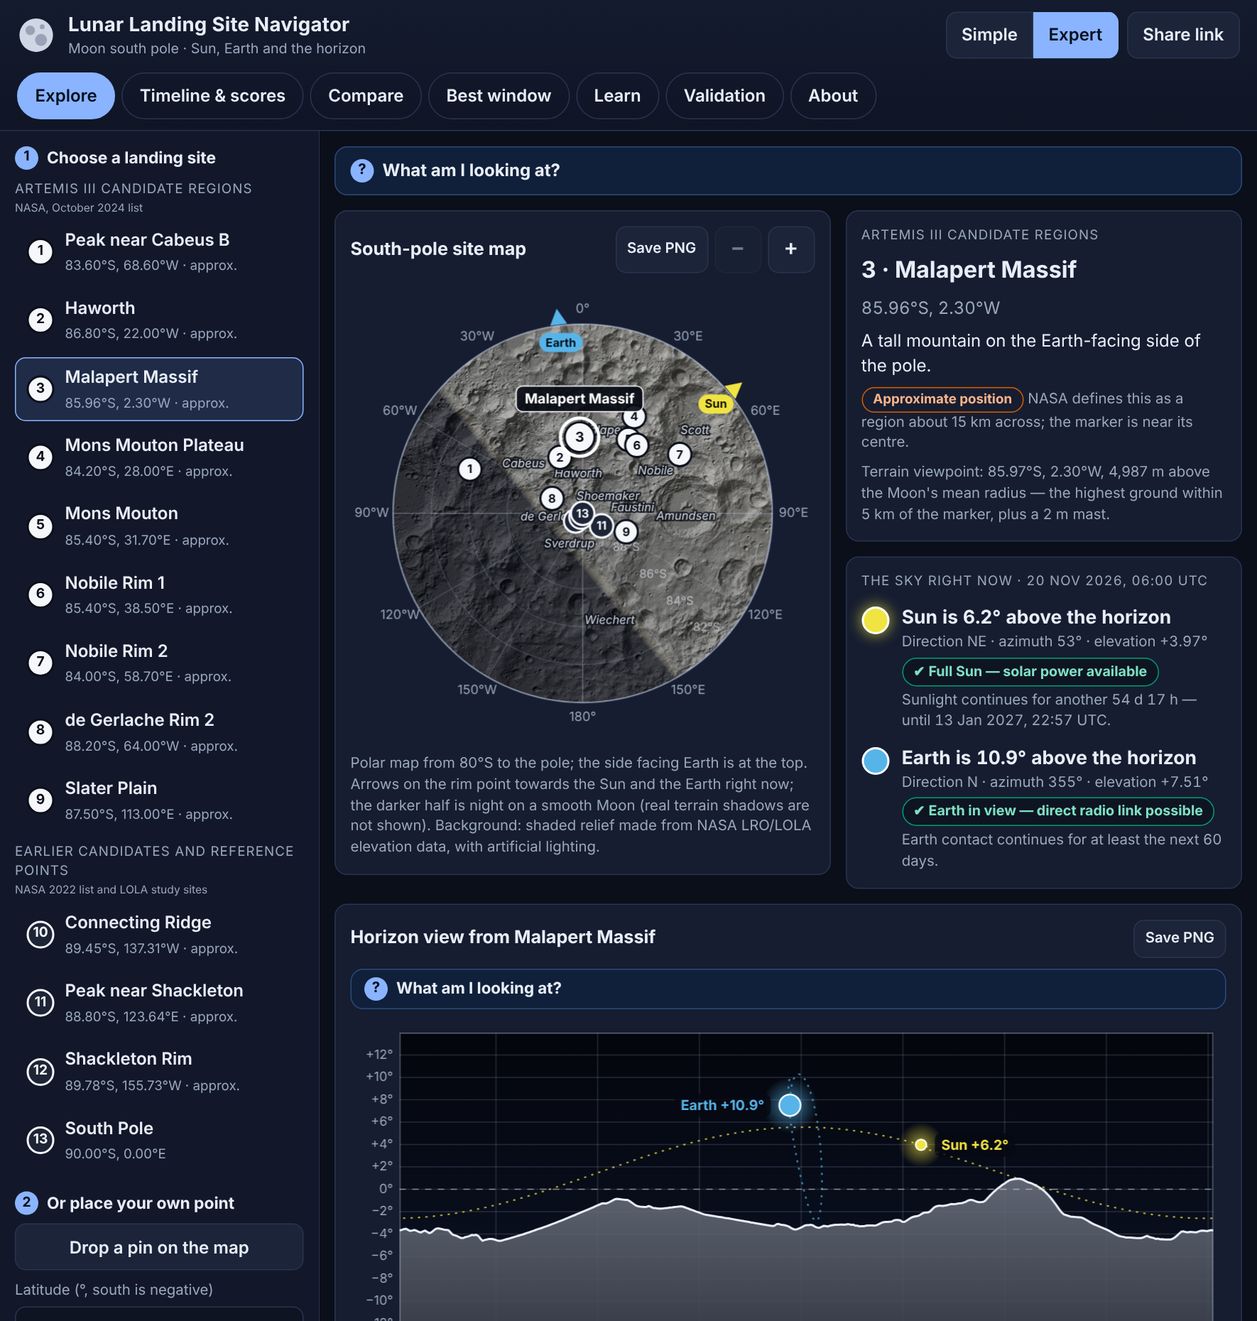
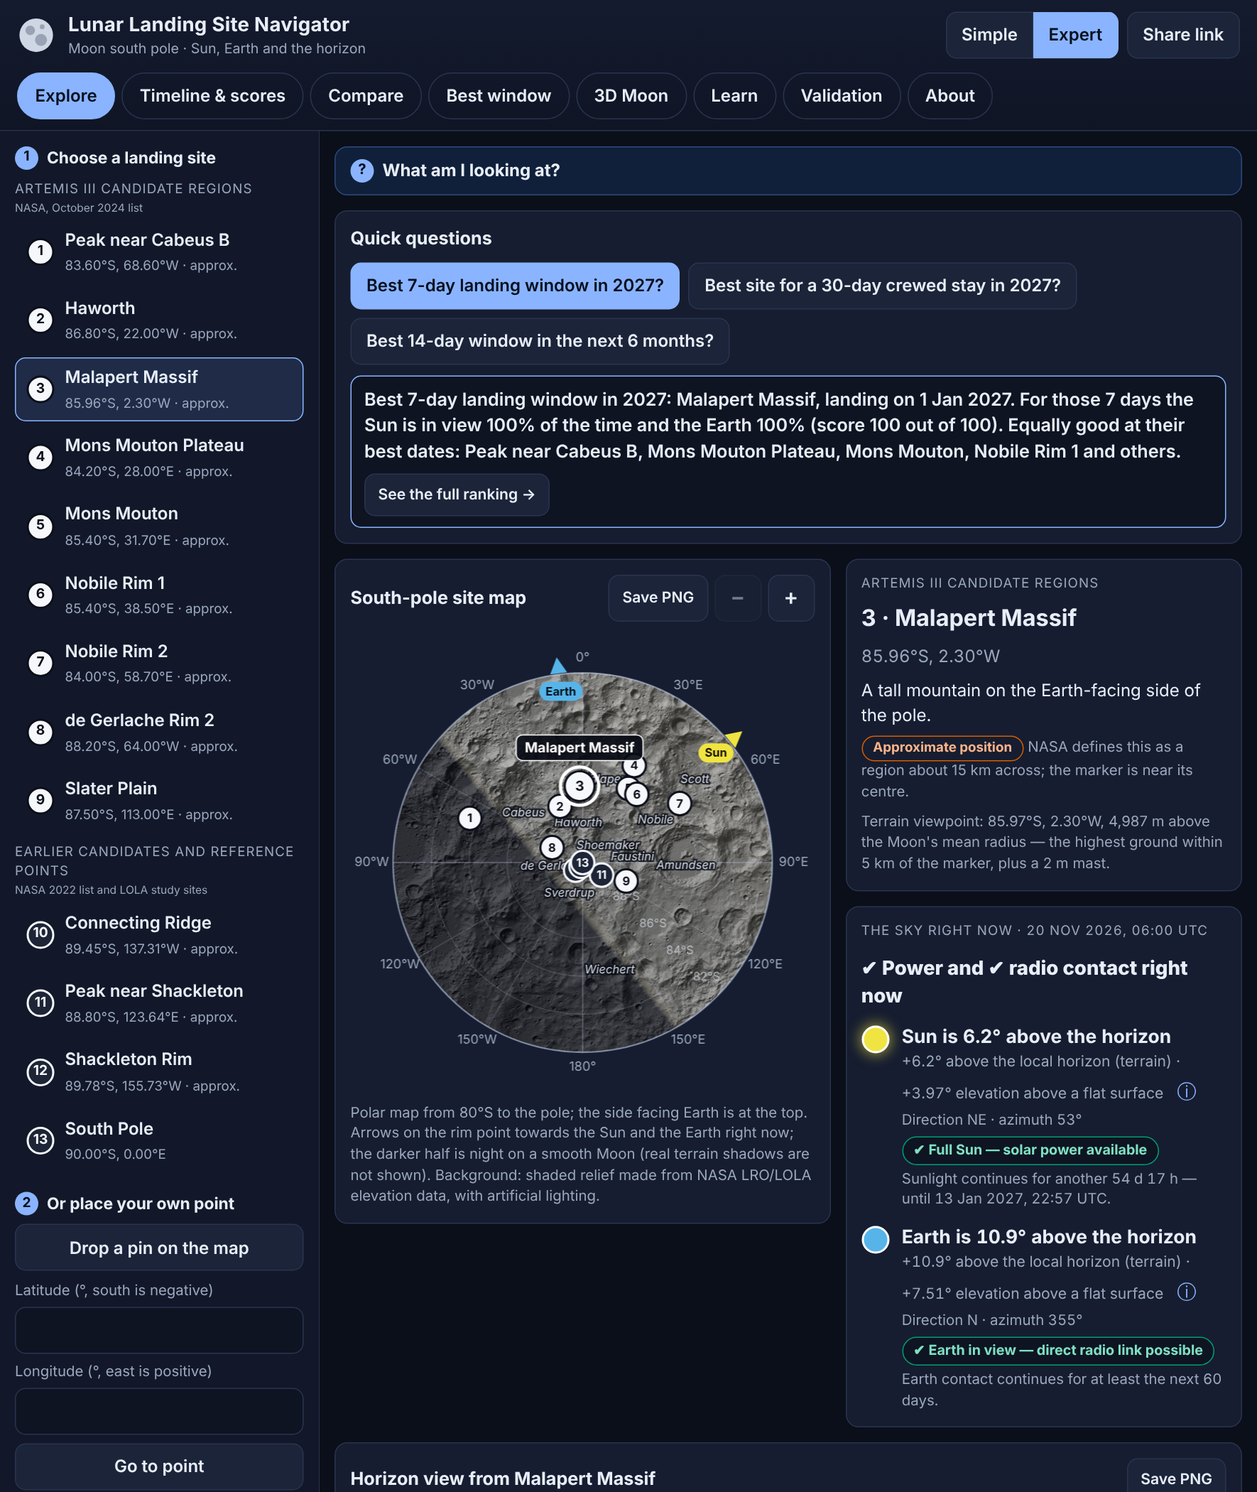
Step 5: update About, submission pack and demo outline; final checks
- About: credits for the NASA LOLA global model and Three.js, limitations for
  the 3D Moon, quick questions, mission brief, worksheet and offline use
- SUBMISSION.md, DEMO.md, README.md and PLAN.md describe the new features;
  new screenshots (Explore with quick question, 3D Moon, mission brief)
- Browser test now opens every tab in both Simple and Expert mode on iPad
  portrait and checks for sideways overflow
- Fix: Best window tab no longer scrolls sideways on iPad portrait

Claude-Session: https://claude.ai/code/session_01MwTxFqKq1VnDfMnRqMhdA6

diff --git a/index.html b/index.html
@@ -588,6 +588,8 @@
             <li><strong>LOLA average illumination and Earth-visibility maps</strong> <code>AVGVISIB_65S_240M_201608</code>
               (LOLA team, NASA PDS): reference values on the Validation page.</li>
             <li><strong>NASA JPL Horizons System</strong>: reference Sun and Earth positions on the Validation page.</li>
+            <li><strong>LRO/LOLA global elevation model</strong> <code>LDEM_4</code> (4 pixels per degree, LOLA team, NASA PDS
+              Geosciences Node): the whole-Moon shaded relief on the 3D Moon tab.</li>
             <li><strong>NASA Artemis III candidate landing regions</strong> (NASA news release, 28 October 2024, and the
               earlier list of 19 August 2022): the names of the regions shown.</li>
           </ul>
@@ -596,6 +598,7 @@
             <li><em>astronomy-engine</em> v2.1.19 by Don Cross (MIT licence), included in this site’s files.</li>
             <li>IAU Working Group on Cartographic Coordinates and Rotational Elements: lunar rotation model.</li>
             <li>IAU Gazetteer of Planetary Nomenclature (USGS): crater names; positions are rounded.</li>
+            <li><em>Three.js</em> r160 (MIT licence), included in this site’s files: the 3D Moon tab only.</li>
             <li>Okabe–Ito colour-blind-safe palette.</li>
             <li>No trackers, no cookies, no external requests.</li>
             <li><strong>Works offline:</strong> after the first visit the tool keeps a copy of its files on your device. On an iPad, tap Share → “Add to Home Screen” to install it like an app.</li>
@@ -622,6 +625,15 @@
             <li><strong>Scores are a planning aid,</strong> not a mission decision: they ignore slopes, temperature,
               landing hazards and science value.</li>
             <li><strong>Time step is one hour.</strong> Events shorter than that can be missed in timelines.</li>
+            <li><strong>3D Moon.</strong> The surface is real LOLA relief but coarse away from the south pole (about 7.6 km per
+              pixel, slopes exaggerated so they show). Day and night are for a smooth ball with the night side brightened. The
+              Earth and Sun balls show direction only; their sizes and distances are not to scale. Pinch-zoom was built with
+              standard touch events but could not be tested on a physical tablet by the automated checks.</li>
+            <li><strong>Quick questions</strong> on the Explore tab search the calendar year 2027 (or the next six months) with
+              your current settings. Several sites often tie at their best dates; the answer says so.</li>
+            <li><strong>Mission brief and worksheet</strong> are summaries of the same calculations and carry the same
+              limitations. The worksheet’s teacher notes are short guides, not a full answer key.</li>
+            <li><strong>Offline use</strong> needs one visit while online first, so the files can be saved on the device.</li>
           </ul>
 
           <h3>Use of AI</h3>

diff --git a/css/style.css b/css/style.css
@@ -208,7 +208,7 @@ output { color: var(--text); font-weight: 700; font-variant-numeric: tabular-num
   font-size: 2.2rem; font-weight: 800; border: 4px solid var(--accent); background: #0e1422; font-variant-numeric: tabular-nums;
 }
 .why summary { cursor: pointer; font-weight: 700; min-height: var(--touch); display: flex; align-items: center; }
-.table-wrap { overflow-x: auto; -webkit-overflow-scrolling: touch; }
+.table-wrap { overflow-x: auto; -webkit-overflow-scrolling: touch; position: relative; } /* relative: keeps screen-reader-only labels inside the scroll area */
 table { border-collapse: collapse; width: 100%; font-variant-numeric: tabular-nums; }
 th, td { text-align: right; padding: 8px 10px; border-bottom: 1px solid var(--line); white-space: nowrap; }
 th:first-child, td:first-child, tbody th, thead th:nth-child(2) { text-align: left; }

diff --git a/sw.js b/sw.js
@@ -2,7 +2,7 @@
 // Strategy: NETWORK FIRST. Whenever the device is online the newest files are fetched (and
 // saved); the saved copies are used only when the network is unavailable. This way a new
 // version of the site is never hidden by an old cache.
-const CACHE = 'llsn-offline-v3';
+const CACHE = 'llsn-offline-v4';
 const FILES = [
   "./",
   "index.html",

diff --git a/SUBMISSION.md b/SUBMISSION.md
@@ -24,8 +24,9 @@ an Earth that keeps dipping out of view. Lunar Landing Site Navigator is a free 
 that shows, for any Artemis candidate region or any point you tap, where the Sun and the
 Earth sit against the real terrain skyline, when there is power, when there is a direct
 radio link, and when both happen together. It scores and compares sites, finds the best
-landing window for your mission length, and explains everything in plain language. It runs
-in any browser, even on a tablet, and checks itself live against NASA reference data.
+landing window for your mission length, shows it all on a 3D Moon, and explains everything
+in plain language. It runs in any browser, even offline on a tablet, and checks itself live
+against NASA reference data.
 
 ---
 
@@ -39,7 +40,8 @@ should we land near the Moon's south pole?* — into something anyone can explor
   reference points. Tap a site, or drop your own pin, and a 360° horizon view shows the Sun
   and the Earth against the real terrain skyline, with plain sentences such as "Sun is 4.0°
   above the horizon" and a countdown ("Sunlight continues for another 3 d 4 h"). A time
-  slider and time-lapse (1 hour or 1 day per second) show how they move.
+  slider and time-lapse (1 hour or 1 day per second) show how they move. "Quick question"
+  cards answer things like "Best 7-day landing window in 2027?" in one sentence.
 - **Timeline & scores.** For 30 days up to one year, coloured strips show when the site has
   sunlight (power), when the Earth is in view (direct-to-Earth communication) and when both
   overlap. Five key numbers follow: sunlit %, longest darkness, Earth-visible %, longest
@@ -50,14 +52,22 @@ should we land near the Moon's south pole?* — into something anyone can explor
 - **Best window.** Enter a mission length (for example 7, 14 or 30 days). The tool scores
   every possible start date for one site or for all sites and ranks the best landing
   windows.
+- **3D Moon.** A globe you can turn and zoom with your fingers, textured with NASA LOLA
+  relief, with the sites as tappable pins, the Sun as the light source and the Earth in its
+  true direction, driven by the same time slider and Play button.
 - **Learn.** A six-step guided tour explains why the south pole is special, why shadows are
   so long, what permanently shadowed regions are and why the Earth is only sometimes in
   view. Every technical word can be tapped for a plain-language explanation, and a
-  Simple / Expert switch hides or shows the detailed controls.
+  Simple / Expert switch hides or shows the detailed controls. A printable classroom
+  worksheet gives teachers four ready-made questions.
 - **Validation.** 22 automated checks run live in the browser and compare the tool with
-  NASA JPL Horizons, NASA's LOLA illumination maps and known physics, each with pass/fail.
+  NASA JPL Horizons, NASA's LOLA illumination maps and known physics, each with pass/fail,
+  under a plain-words headline of the largest differences found.
 - **Export and share.** Every chart saves as PNG, every table as CSV, and the full state
-  of any view is stored in the link, so a finding can be shared with one tap.
+  of any view is stored in the link, so a finding can be shared with one tap. A one-page
+  **Mission Brief** (key numbers, timeline, honest limitations) can be saved or printed.
+- **Offline.** After one visit the tool works without a network and can be added to a
+  tablet's home screen.
 
 ### How it works
 1. **Ephemeris.** Sun and Moon positions come from the open-source astronomy-engine
@@ -87,8 +97,8 @@ should we land near the Moon's south pole?* — into something anyone can explor
   Faustini and Shoemaker craters receive 0% sunlight, as in NASA's map.
 - It reproduces the **total lunar eclipse of 3 March 2026** (the Earth hides the Sun as
   seen from the Moon), the libration limits and the 29.53-day lunar day.
-- 29 automated Node tests and a headless-browser click-through of every feature pass with
-  no console errors.
+- 32 automated Node tests and a headless-browser click-through of every feature (including
+  an offline run) pass with no console errors.
 
 ### Benefits
 - **Mission planners** get a fast first look at power and communication trade-offs before
@@ -103,14 +113,17 @@ should we land near the Moon's south pole?* — into something anyone can explor
 Candidate-region markers are approximate (NASA announced named regions about 15 km across,
 not centre coordinates). Terrain is on a 240 m grid, so small features are not seen. The
 radio link means "Earth above the local horizon by a chosen margin", not a full link
-budget. Scores are a planning aid and ignore slopes, temperature and landing hazards.
+budget. Scores are a planning aid and ignore slopes, temperature and landing hazards. On the
+3D Moon the relief away from the pole is coarse, the day/night shading is for a smooth ball,
+and the Earth and Sun markers show direction only.
 
 ### Tools and technologies
 HTML, CSS and JavaScript (ES modules) with no framework and no build step; HTML canvas for
 all maps and charts; a Web Worker for calculations; Node.js for the terrain pre-processing,
 the year simulation and the automated tests; Playwright for headless-browser testing;
-GitHub Pages for hosting. The only third-party library is astronomy-engine (MIT licence),
-stored in the repository, so the site makes no external requests.
+GitHub Pages for hosting; a service worker and web manifest for offline use. Two third-party
+libraries, both MIT-licensed and stored in the repository so the site makes no external
+requests: astronomy-engine (ephemeris) and Three.js (3D Moon tab only).
 
 ---
 
@@ -120,7 +133,9 @@ tests and the documentation of this project. I and my team made the decisions, t
 tool and checked the results. No AI-generated images, audio or video are used. The numbers
 shown in the tool do not come from an AI: they are computed from NASA data and published
 models, and the Validation page compares them with NASA reference values every time it is
-opened. The simple diagrams in the Learn tour were drawn as code for this project. Every
+opened. The simple diagrams in the Learn tour, the app icon and the 3D Moon texture were
+produced by code written for this project (the texture from NASA elevation data), not by an
+image generator. Every
 assumption and approximation is recorded in DECISIONS.md and on the About page.
 
 ---
@@ -131,6 +146,9 @@ assumption and approximation is recorded in DECISIONS.md and on the About page.
   it is the terrain. We compute a 360-direction horizon mask for every site from it, a
   960 m version for user-placed points, and the shaded-relief background of the map.
   https://pds-geosciences.wustl.edu/missions/lro/lola.htm
+- **LRO / LOLA global elevation model `LDEM_4`** (4 pixels per degree, LOLA team, NASA PDS
+  Geosciences Node). *How we use it:* we compute the whole-Moon shaded relief shown on the
+  3D Moon tab from it.
 - **LOLA average solar illumination and Earth visibility maps
   `AVGVISIB_65S_240M_201608` and `..._EARTH`** (LOLA team, NASA PDS, described at NASA
   Goddard PGDA). *How we use them:* as independent reference values; the Validation page
@@ -151,6 +169,7 @@ No partner-agency datasets are used directly in the tool.
 Other tools, models and references:
 - Astronomy Engine v2.1.19 by Don Cross (MIT licence): Sun and Moon ephemerides and the
   IAU lunar rotation series. https://github.com/cosinekitty/astronomy
+- Three.js r160 (MIT licence): rendering of the 3D Moon tab. https://threejs.org
 - Archinal, B. A., et al. (2011). Report of the IAU Working Group on Cartographic
   Coordinates and Rotational Elements: 2009. *Celestial Mechanics and Dynamical Astronomy*,
   109, 101–135.

diff --git a/DEMO.md b/DEMO.md
@@ -5,7 +5,8 @@ few words; no images of people under 18 (the slides use only app screenshots).
 Replace **[TEAM NAME]** and **[MEMBER NAMES]** before presenting.
 
 Screenshots to use (already in the repository):
-`docs/screenshot-explore.png`, `docs/screenshot-timeline.png`, `docs/screenshot-finder.png`.
+`docs/screenshot-explore.png`, `docs/screenshot-timeline.png`, `docs/screenshot-finder.png`,
+`docs/screenshot-moon3d.png`, `docs/mission-brief-example.png`.
 Design tip: dark background, white text, at least 32 pt, one idea per slide.
 
 ---
@@ -57,14 +58,16 @@ solar power available'. Press Play and watch a whole lunar day go by."
 - Three steps: **Pick a site → Pick dates → Get answers**
 - Timeline: power, radio, both (`docs/screenshot-timeline.png`)
 - Score from 0 to 100 that explains itself
-- Compare up to four sites · Simple and Expert modes · Learn tour
+- 3D Moon you can turn with a finger (`docs/screenshot-moon3d.png`)
+- Compare · Simple and Expert modes · Learn tour and worksheet
 
 **Speaker notes**
 "The experience is three steps. Pick a site, pick dates, get answers. The timeline shows
 when there is power, when there is radio contact and when both overlap. Five key numbers
 and one overall score sum it up, and a 'Why this score?' table shows every point. You
-choose what matters with sliders. A guided tour and tap-to-explain words teach the science,
-and everything exports as picture, spreadsheet or share link."
+choose what matters with sliders. A 3D Moon shows where the sites sit and where the Sun and
+Earth are. A guided tour, tap-to-explain words and a classroom worksheet teach the science,
+and everything exports as picture, spreadsheet, one-page mission brief or share link."
 
 ---
 
@@ -72,18 +75,21 @@ and everything exports as picture, spreadsheet or share link."
 **On the slide**
 - Screenshot: `docs/screenshot-finder.png`
 - "Tell it your mission length. It finds the best place and date."
+- One-tap questions · one-page Mission Brief (`docs/mission-brief-example.png`)
 
 **Speaker notes**
 "The best-window finder is our favourite part. Say your mission lasts fourteen days. The
 tool tries every start date at every site and ranks them. In this example, searching from
 January 2027, several high sites reach a perfect score: two weeks of unbroken sunlight and
-unbroken contact with Earth. The list tells you exactly which dates."
+unbroken contact with Earth. The list tells you exactly which dates. On the first screen,
+one-tap questions give the same answer in a sentence, and a Mission Brief puts the numbers,
+the timeline and the limitations on one printable page."
 
 ---
 
 ## Slide 6 — Made possible by NASA and space-agency data
 **On the slide**
-- **Terrain:** NASA LRO / LOLA elevation model (240 m)
+- **Terrain:** NASA LRO / LOLA elevation models (240 m polar, global for the 3D Moon)
 - **Checked against:** NASA JPL Horizons — within 0.007°
 - **Checked against:** NASA LOLA illumination maps — within about 3 points on average
 - **Sites:** NASA Artemis III candidate regions
@@ -100,15 +106,16 @@ and shows pass or fail. Where we simplify, we say so on screen."
 
 ## Slide 7 — Impact and what comes next
 **On the slide**
-- Free, no login, works on a tablet
+- Free, no login, works on a tablet — even offline
 - For planners, classrooms and the public
 - Next: finer terrain, relay satellites, other poles and worlds
 - Try it: factifyedka.github.io/lunar-naviagator
 - Team **[TEAM NAME]**
 
 **Speaker notes**
-"It is free, needs no login and runs on a tablet. Planners get a fast first look, teachers
-get a hands-on lesson, and the public can follow Artemis. Next we would add finer terrain
+"It is free, needs no login and runs on a tablet, even without a network after the first
+visit. Planners get a fast first look, teachers get a hands-on lesson with a ready worksheet,
+and the public can follow Artemis. Next we would add finer terrain
 around each site, relay satellites for the far side, and the north pole. Thank you — please
 try it yourself."
 
@@ -121,7 +128,7 @@ try it yourself."
 | 0–5 s | Title card: project name, tagline, team name | "We are [TEAM NAME], and this is the Lunar Landing Site Navigator." |
 | 5–11 s | Map, then time-lapse of the Sun skimming the horizon | "At the Moon's south pole the Sun skims the horizon and the Earth plays hide-and-seek. No Sun, no power. No Earth, no radio." |
 | 11–16 s | Tap a site; horizon view with real skyline | "Find the light. Keep the link. Tap any landing site to see the Sun and the Earth against the real skyline." |
-| 16–24 s | Timeline strips, score, then best-window ranking | "Using NASA's lunar terrain data, it shows when you have power and contact, scores every site, and finds your best landing window." |
+| 16–24 s | Timeline strips, best-window ranking, then a spin of the 3D Moon | "Using NASA's lunar terrain data, it shows when you have power and contact, scores every site, and finds your best landing window." |
 | 24–30 s | Validation page "All checks passed", then the link | "Checked live against NASA data — and one day, ready to plan for any world. Try it now." |
 
 Word count of the voice-over: about 85 words, comfortable for 30 seconds.

diff --git a/README.md b/README.md
@@ -14,29 +14,35 @@ Earth, and when and where it is best to land.
 ## What it does
 | Tab | What you get |
 |-----|--------------|
-| Explore | South-pole relief map with NASA's Artemis III candidate regions, custom pin, live horizon view with the real terrain skyline, time slider and time-lapse |
+| Explore | South-pole relief map with NASA's Artemis III candidate regions, custom pin, live horizon view with the real terrain skyline, time slider and time-lapse, one-tap "Quick questions" |
 | Timeline & scores | Power / radio-contact timeline for 30 days to 1 year, five key numbers, an explainable overall score with weight sliders, whole-year ranking |
 | Compare | Up to four sites or dates side by side |
 | Best window | Enter a mission length; get the best start dates for one site or all sites |
-| Learn | Six-step guided tour in plain language, glossary, tap-to-explain words |
+| 3D Moon | Rotatable, zoomable globe with NASA LOLA relief, site pins, Sun as the light and Earth direction |
+| Learn | Six-step guided tour in plain language, glossary, tap-to-explain words, printable classroom worksheet |
 | Validation | 22 live checks against NASA JPL Horizons, NASA LOLA illumination maps and known physics |
 | About | Method, data credits, honest limitations, AI disclosure, references |
 
-Every chart can be saved as PNG, every table as CSV, and every view shared by link.
+Every chart can be saved as PNG, every table as CSV, and every view shared by link. A one-page
+**Mission Brief** can be saved or printed. The site works offline after the first visit and can be
+added to the iPad home screen.
 
 ## Data and method (short)
 - Sun/Moon ephemeris: [astronomy-engine](https://github.com/cosinekitty/astronomy) (MIT), vendored in `vendor/`.
 - Moon orientation: IAU WGCCRE rotation model.
-- Terrain: NASA LRO/LOLA `LDEM_75S_240M` elevation model → horizon masks (`tools/build-terrain.mjs`).
+- Terrain: NASA LRO/LOLA `LDEM_75S_240M` elevation model → horizon masks (`tools/build-terrain.mjs`);
+  `LDEM_4` global model → 3D Moon texture (`tools/build-global-relief.mjs`).
+- 3D: [Three.js](https://threejs.org) r160 (MIT), vendored in `vendor/`, loaded only on the 3D tab.
 - Validation references: NASA JPL Horizons and NASA LOLA average-illumination maps.
 - Details and every approximation: [DECISIONS.md](DECISIONS.md). Roadmap: [PLAN.md](PLAN.md).
 
 ## Run and test
 ```
 python3 -m http.server 8080      # then open http://localhost:8080
-npm test                         # 29 automated tests (Node 20+, nothing to install)
+npm test                         # 32 automated tests (Node 20+, nothing to install)
 node tools/browser-check.mjs     # headless click-through of every feature (needs Playwright)
 node tools/simulate.mjs 2027     # full-year simulation of every site, prints a ranking
+node tools/build-sw.mjs          # refresh the offline file list after adding files
 ```
 
 ## Switch on GitHub Pages (owner, once)
@@ -53,4 +59,5 @@ node tools/simulate.mjs 2027     # full-year simulation of every site, prints a 
 Terrain and reference data: NASA (LRO/LOLA team at Goddard Space Flight Center, PDS Geosciences
 Node, JPL Solar System Dynamics). Candidate-region names: NASA Artemis III announcements.
 Code written with the help of Claude, an AI model by Anthropic; see the About page for the
-full AI disclosure. Licence of the vendored library: `vendor/astronomy.LICENSE.txt`.
+full AI disclosure. Licences of the vendored libraries: `vendor/astronomy.LICENSE.txt`,
+`vendor/three.LICENSE.txt`.

diff --git a/PLAN.md b/PLAN.md
@@ -20,6 +20,15 @@ sites and dates by **where the Sun and the Earth are relative to the horizon**
 | 6 | Validation page (JPL Horizons + NASA LOLA illumination maps), About page, look-ahead countdown, SUBMISSION.md, DEMO.md | done (publishing needs the owner to switch on GitHub Pages) |
 | + | Extras: "how long until the Sun/Earth sets or returns" countdown — done. 3D Moon view — not built (time) | |
 
+## Enhancement round (after the first live version, tagged v1-safe = commit e56fcb2)
+| Step | What | Status |
+|------|------|--------|
+| 1 | Compare/Validation tabs in Simple mode; two sky angles labelled unambiguously | done |
+| 2 | Scenario cards, Mission Brief, validation headline, classroom worksheet | done |
+| 3 | First-visit time-lapse, larger touch targets, offline support and home-screen install | done |
+| 4 | 3D Moon tab (Three.js, NASA LOLA global relief) | done |
+| 5 | About, SUBMISSION.md and DEMO.md updated | done |
+
 ## How the code is organised
 ```
 index.html          page shell (header, control panel, views)
@@ -43,6 +52,10 @@ js/glossary.js      glossary words and tap-to-explain tooltips
 js/export.js        CSV / PNG download and share-link helpers
 js/validation-view.js  live checks against NASA references and known physics
 js/team.js          team name and members for the About page
+js/scenarios.js     one-tap "Quick questions" on the Explore tab
+js/brief.js         one-page Mission Brief (PNG / print)
+js/moon3d.js        3D Moon tab (loaded on demand)
+sw.js, manifest.webmanifest, icons/   offline support and home-screen install
 data/               small files generated from NASA LOLA data + the year simulation
 js/ui.js            small helpers (formatting, canvas sizing, colours)
 vendor/             third-party library committed to the repo (astronomy-engine, MIT)
